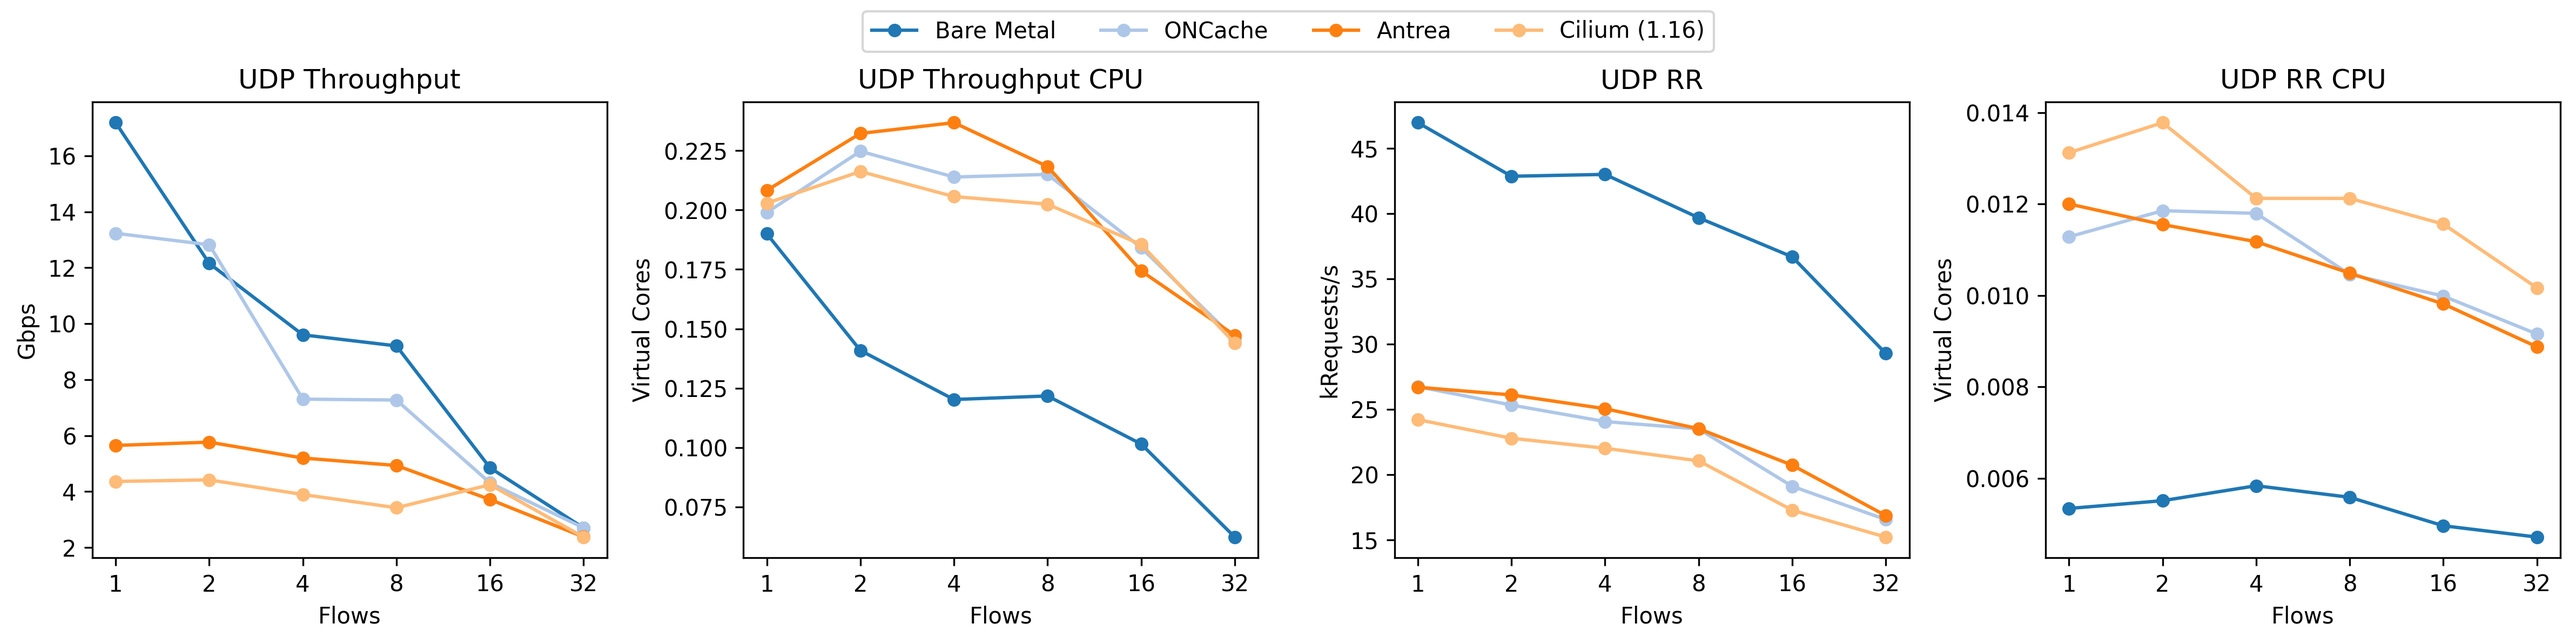
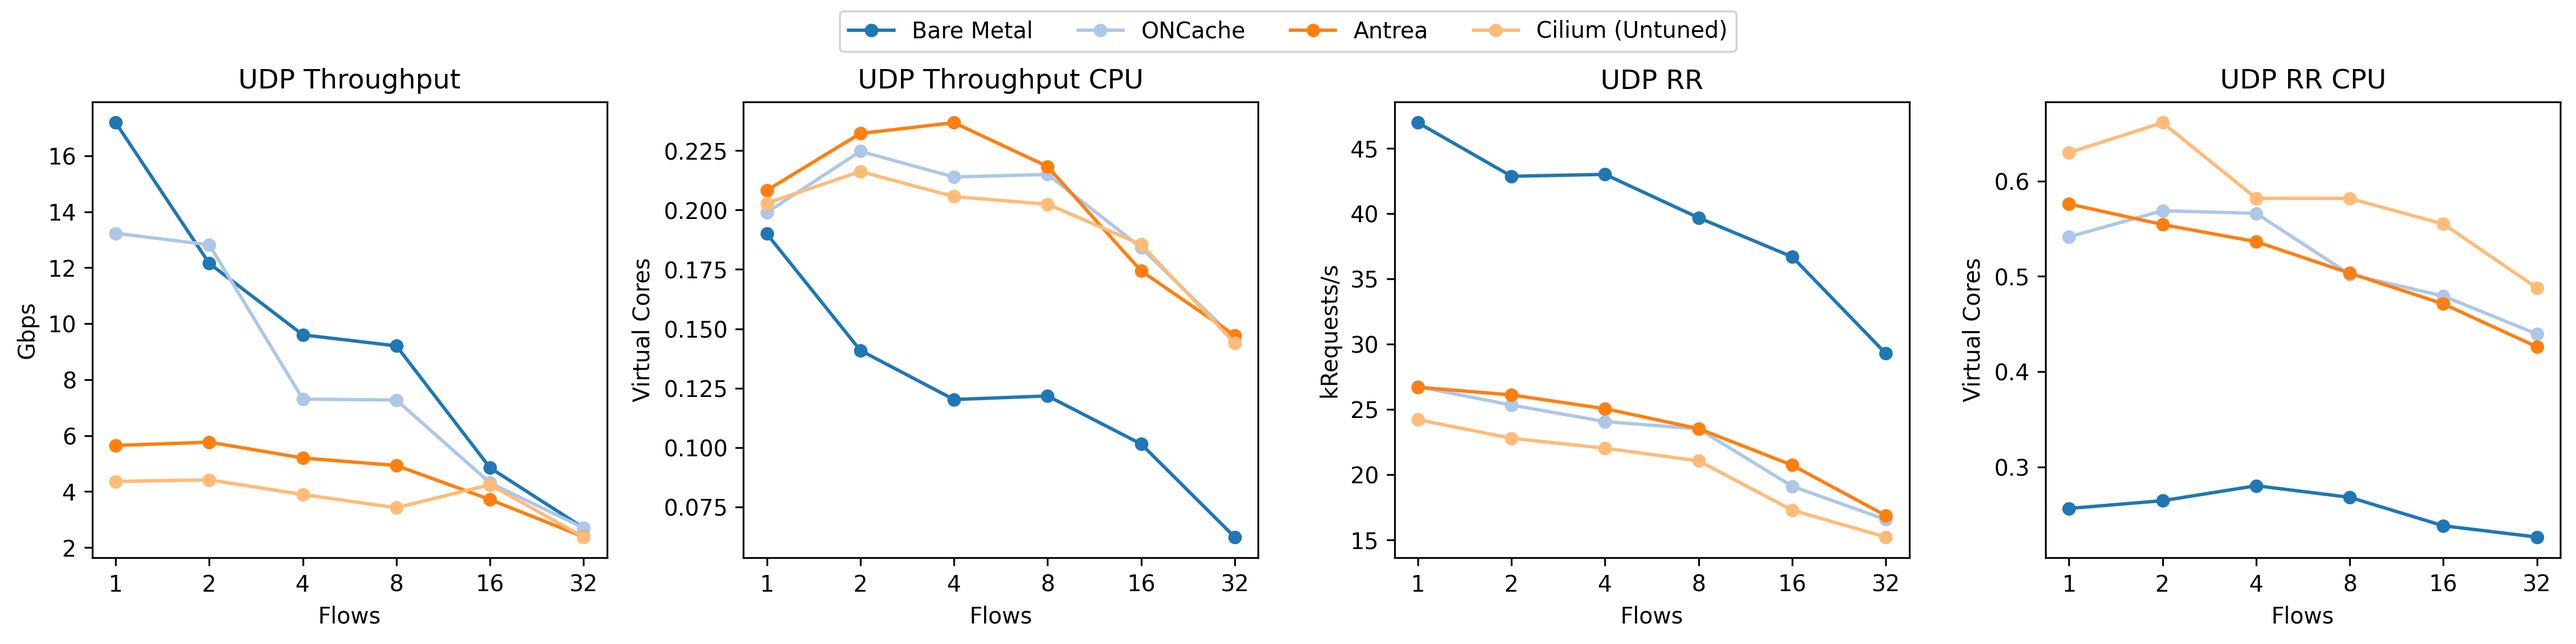
Update plotting

diff --git a/plot.py b/plot.py
@@ -35,11 +35,11 @@ DATA_CONFIG: Dict[str, DataConfig] = {
         "label": "ONCache",
         "color": "#AEC7E8",
     },
-    "k8s-oncache-orig": {
-        "filename": "{}_k8s_output_oncache_orig.csv",
-        "label": "ONCache (Theirs)",
-        "color": "#BEF49F",
-    },
+    # "k8s-oncache-orig": {
+    #     "filename": "{}_k8s_output_oncache_orig.csv",
+    #     "label": "ONCache (Theirs)",
+    #     "color": "#BEF49F",
+    # },
     "k8s-antrea": {
         "filename": "{}_k8s_output_antrea.csv",
         "label": "Antrea",
@@ -50,11 +50,11 @@ DATA_CONFIG: Dict[str, DataConfig] = {
         "label": "Cilium (Untuned)",
         "color": "#FFBB78",
     },
-    "k8s-cilium-tuned": {
-        "filename": "{}_k8s_output_cilium_tuned.csv",
-        "label": "Cilium (Tuned)",
-        "color": "#4E2705",
-    },
+    # "k8s-cilium-tuned": {
+    #     "filename": "{}_k8s_output_cilium_tuned.csv",
+    #     "label": "Cilium (Tuned)",
+    #     "color": "#4E2705",
+    # },
 }
 
 GRAPHS: List[Graph] = [
